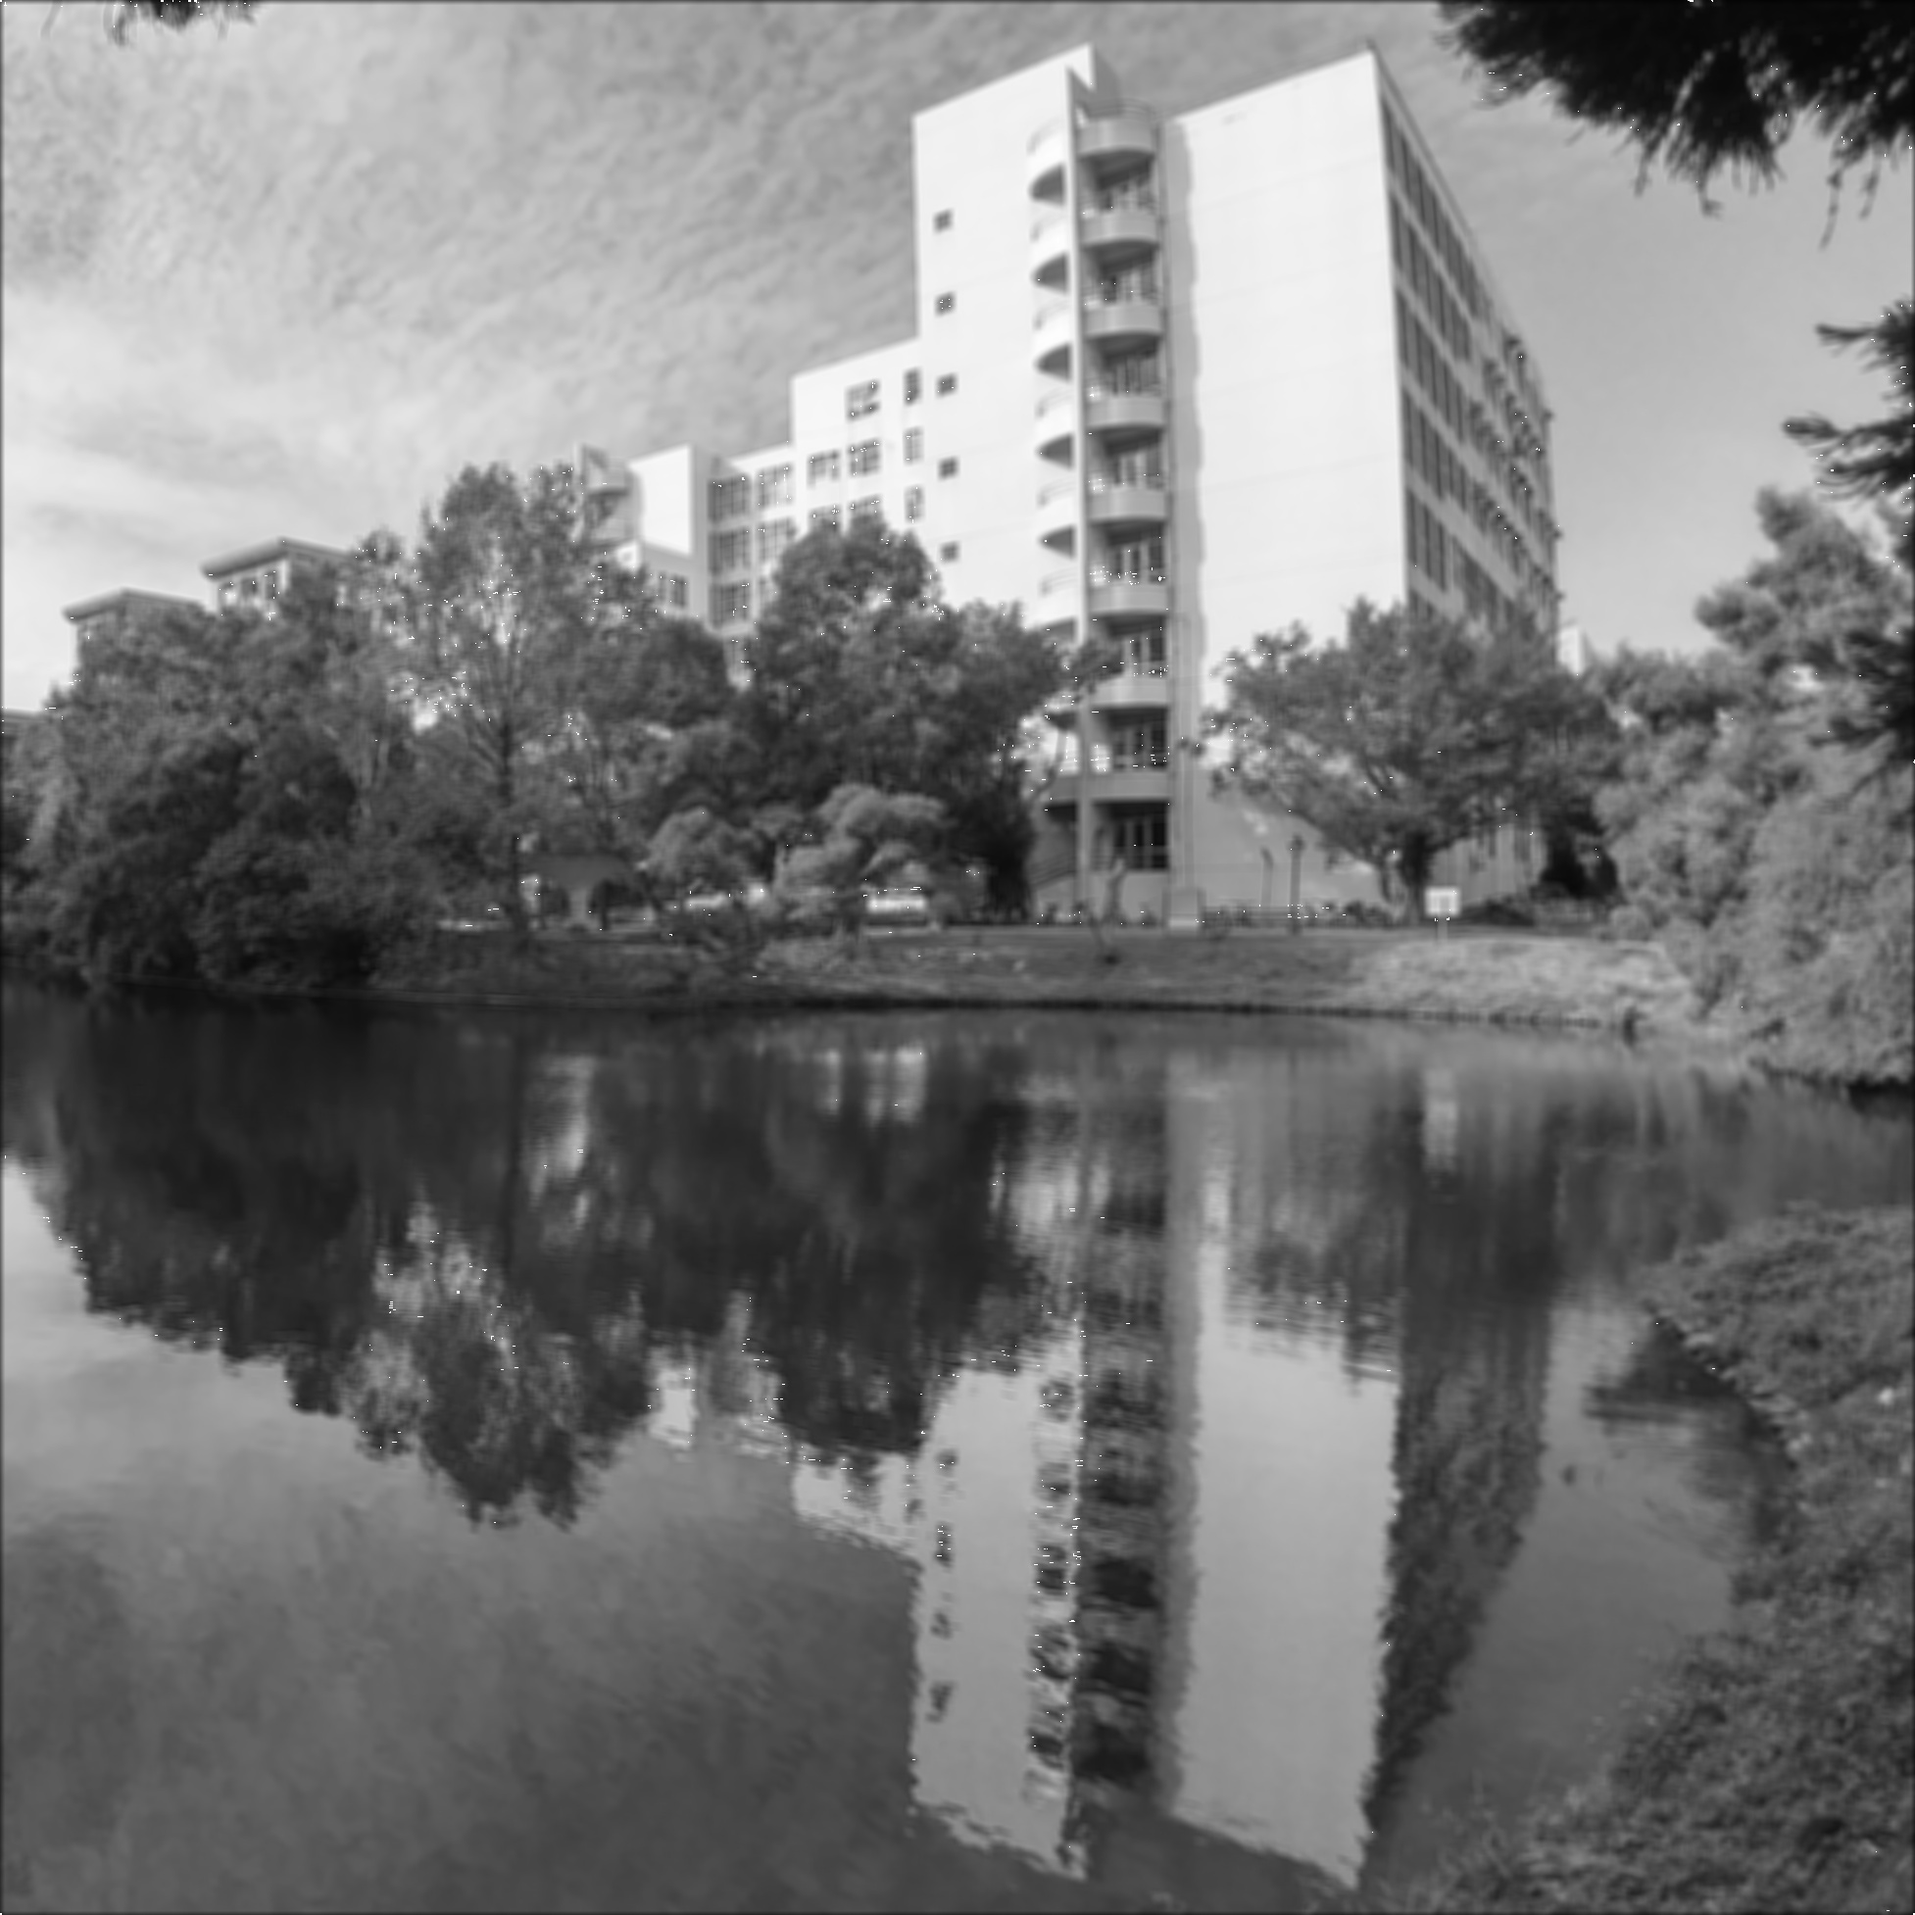
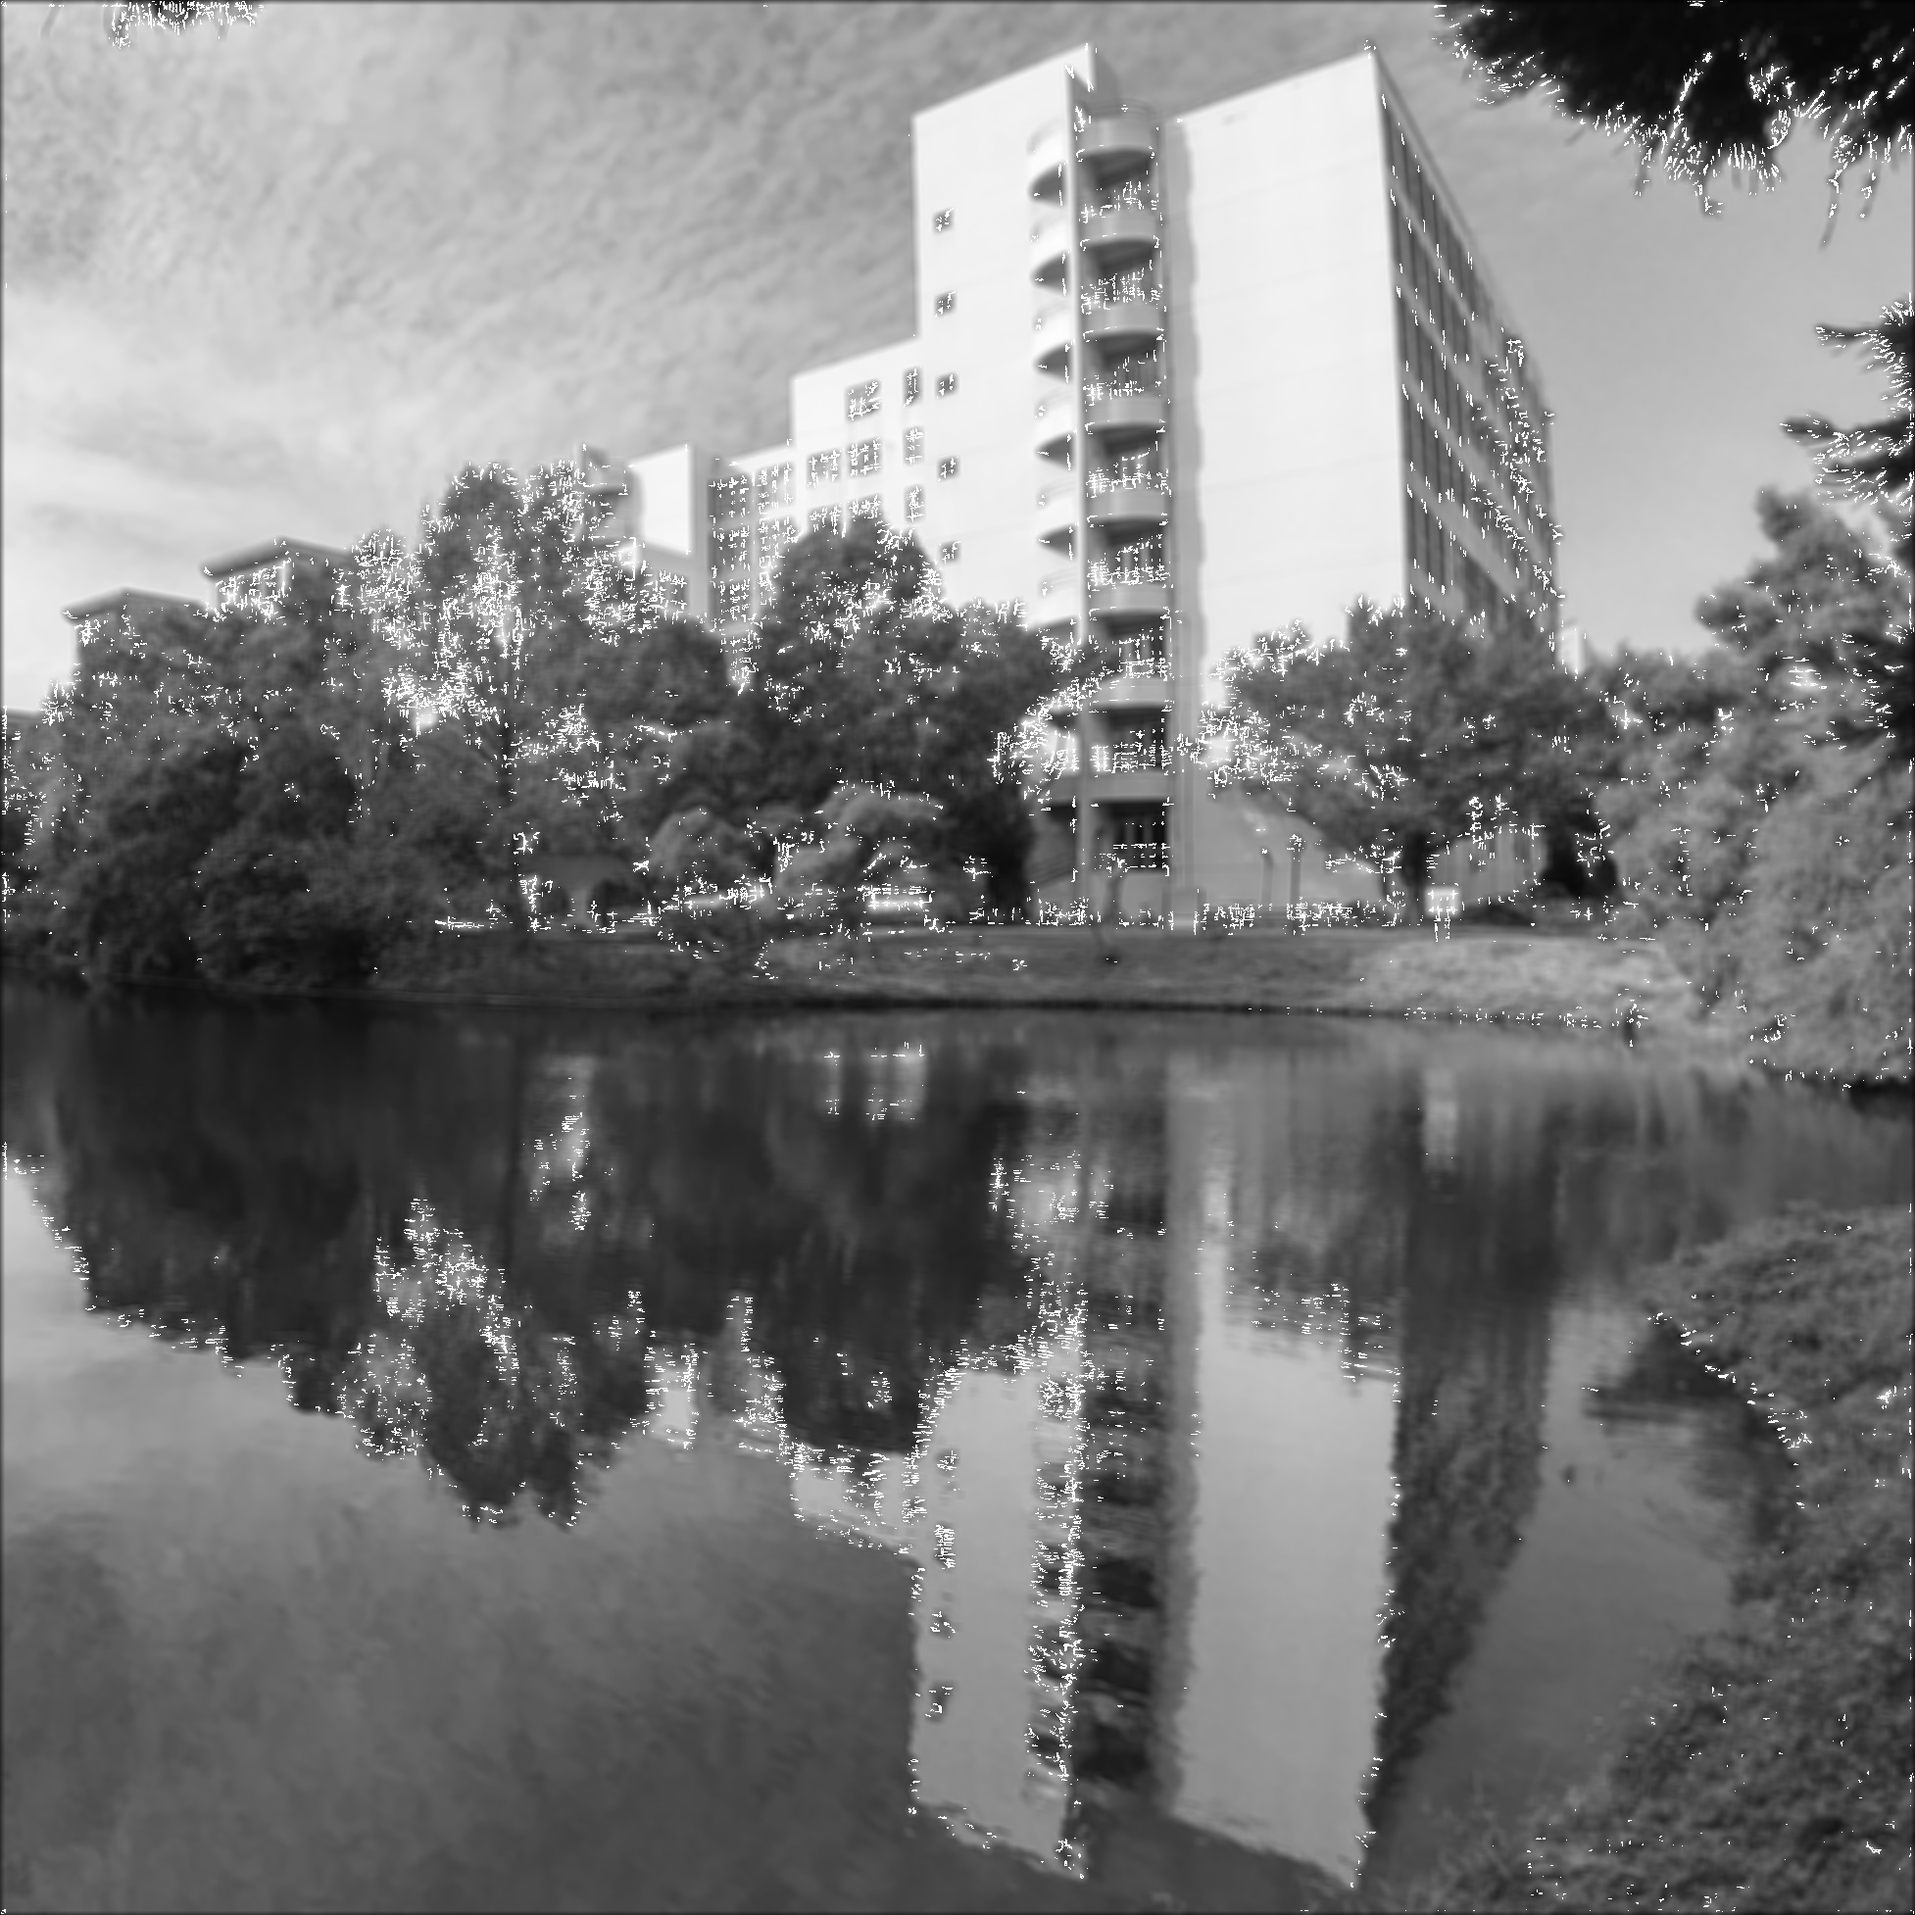
update

diff --git a/Homework1/hw1_1/structure_tensor.py b/Homework1/hw1_1/structure_tensor.py
@@ -4,58 +4,62 @@ import numpy as np
 import cv2
 import convolution as con
 
-def nms_compare(x_d, y_d, angle, gradient, i, j):
+def nms_compare(Harris_Response, x_d, y_d, angle, gradient, i, j):
     #q ,r = 0, 0
     # angel 0
-    if (0 <= angle[i][j] < 22.5) or (337.5 <= angle[i][j] <= 360) or (157.5 <= angle[i][j] < 202.5):
-        q = gradient[i][j+1]
-        r = gradient[i][j-1]
+
+    if (0 <= angle[i, j] < 22.5) or (337.5 <= angle[i, j] <= 360) or (157.5 <= angle[i, j] < 202.5):
+        q = gradient[i, j+1]
+        r = gradient[i, j-1]
 
     # angle 45
-    elif (22.5 <= angle[i][j] < 67.5) or (202.5 <= angle[i][j] < 247.5):
-        q = gradient[i+1][j-1]
-        r = gradient[i-1][j+1]
+    elif (22.5 <= angle[i, j] < 67.5) or (202.5 <= angle[i, j] < 247.5):
+        q = gradient[i+1, j-1]
+        r = gradient[i-1, j+1]
 
     # angle 90
-    elif (67.5 <= angle[i][j] < 112.5) or (247.5 <= angle[i][j] < 292.5):
-        q = gradient[i+1][j]
-        r = gradient[i-1][j]
+    elif (67.5 <= angle[i, j] < 112.5) or (247.5 <= angle[i, j] < 292.5):
+        q = gradient[i+1, j]
+        r = gradient[i-1, j]
 
     # angle 135
-    elif (112.5 <= angle[i][j] < 157.5) or (292.5 <= angle[i][j] < 337.5):
-        q = gradient[i-1][j-1]
-        r = gradient[i+1][j+1]
+    elif (112.5 <= angle[i, j] < 157.5) or (292.5 <= angle[i, j] < 337.5):
+        q = gradient[i-1, j-1]
+        r = gradient[i+1, j+1]
 
-    if not((gradient[i][j] >= q) and (gradient[i][j] >= r)):
-        y_d[i][j] = 0
-        x_d[i][j] = 0
+    if not((gradient[i, j] >= q) and (gradient[i, j] >= r)):
+        return Harris_Response[i, j]
 
-    return x_d[i][j], y_d[i][j]
+    return 0
 
 
-def non_max_subpression(x_d, y_d):
+def non_max_subpression(x_d, y_d, Harris_Response):
     gradient = np.arctan2(y_d, x_d)
+
     # change to angle and classify into 4 classes, 0, 45, 90, 135
     angle = gradient * 180. / np.pi
     l0, l1 = angle.shape
     angle[angle < 0] += 360
 
+    result = np.zeros(Harris_Response.shape)
 
     for i in range(1, l0-1):
         for j in range(1, l1-1):
-            x_d[i][j], y_d[i][j] = nms_compare(x_d, y_d, angle, gradient, i, j)
+            result[i, j] = nms_compare(Harris_Response, x_d, y_d, angle, gradient, i, j)
 
-    return x_d, y_d
+    return result
 
 
 def Harris_Response(x_d, y_d, k, window_size):
     window = np.ones((window_size, window_size), dtype = float)
 
-    Sxx = con.convolution2D(x_d*x_d, window)#cv2.filter2D(x_d*x_d, -1, window)
-    Sxy = con.convolution2D(x_d*y_d, window)#cv2.filter2D(x_d*y_d, -1, window)
-    Syy = con.convolution2D(y_d*y_d, window)#cv2.filter2D(y_d*y_d, -1, window)
+    Sxx = con.convolution2D(x_d*x_d, window) #cv2.filter2D(x_d*x_d, -1, window)
+    Sxy = con.convolution2D(x_d*y_d, window) #cv2.filter2D(x_d*y_d, -1, window)
+    Syy = con.convolution2D(y_d*y_d, window) #cv2.filter2D(y_d*y_d, -1, window)
 
     Harris_Response = (Sxx*Syy - Sxy*Sxy) - k*(Sxx + Syy)*(Sxx + Syy)
+
+    Harris_Response  = non_max_subpression(x_d, y_d, Harris_Response)    
 
     return Harris_Response
 
@@ -66,13 +70,12 @@ def Harris_Response(x_d, y_d, k, window_size):
 def type_distinguish(Response, img):
     img_result = cv2.cvtColor(img, cv2.COLOR_BGR2GRAY).astype(float)
 
-    img_result[Response > 0.0001*Response.max()] = 255
+    img_result[Response > 0.001*Response.max()] = 255
     return img_result
 
 
 def structure_tensor(x_d, y_d, k, img, window_size):
 
-    x_d, y_d = non_max_subpression(x_d, y_d)
     Response = Harris_Response(x_d, y_d, k, window_size)
     
     img = type_distinguish(Response, img)

diff --git a/Homework1/hw1_2/color_correction.py b/Homework1/hw1_2/color_correction.py
@@ -63,15 +63,11 @@ def color_correction(img, ccm):
     # matrix already solve
     x, y, z = img.shape
     output = np.zeros(img.shape)
-
-    # 我的
+    
     for i in range(x):
         for j in range(y):
             output[i,j] = np.dot(img[i,j], ccm)
 
-    # 後來嘗試出來的
-    #output = np.dot(img, cmm)
-    print()
 
 
     ########################################################################

diff --git a/Homework1/hw1_1/gaussian_smooth.py b/Homework1/hw1_1/gaussian_smooth.py
@@ -46,7 +46,7 @@ def gaussian_smooth(path, size, var, choose):
 
 if __name__ == "__main__":
     # where workflow should do
-    size = 10
+    size = 5
     var = 5
     path = 'original.jpg'
     choose = 0
